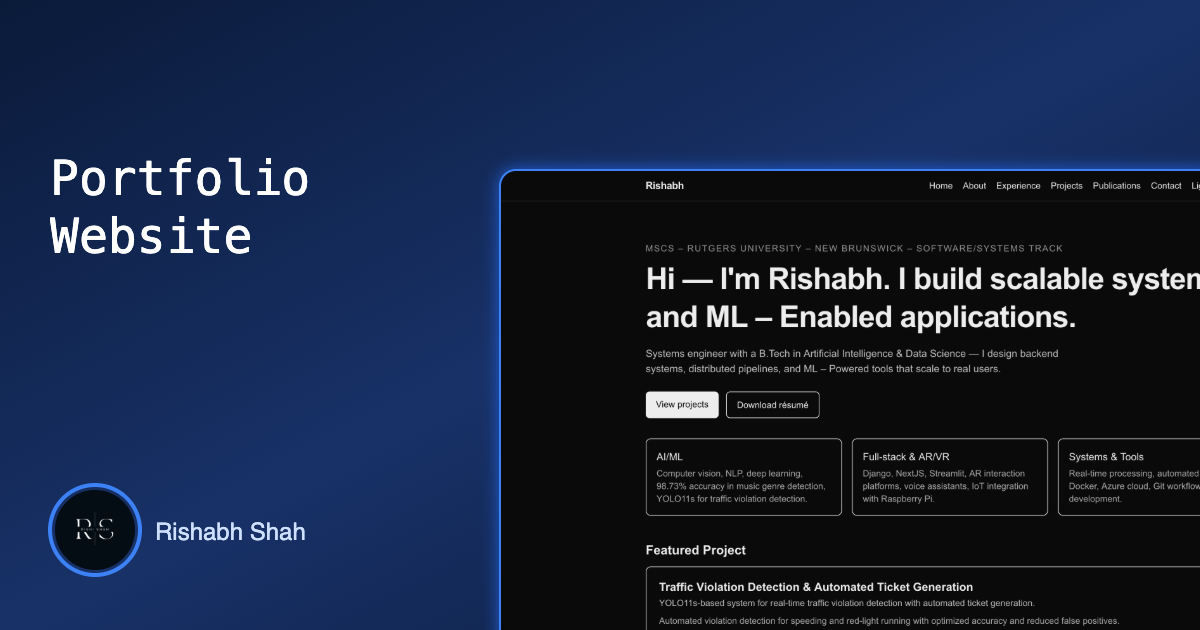
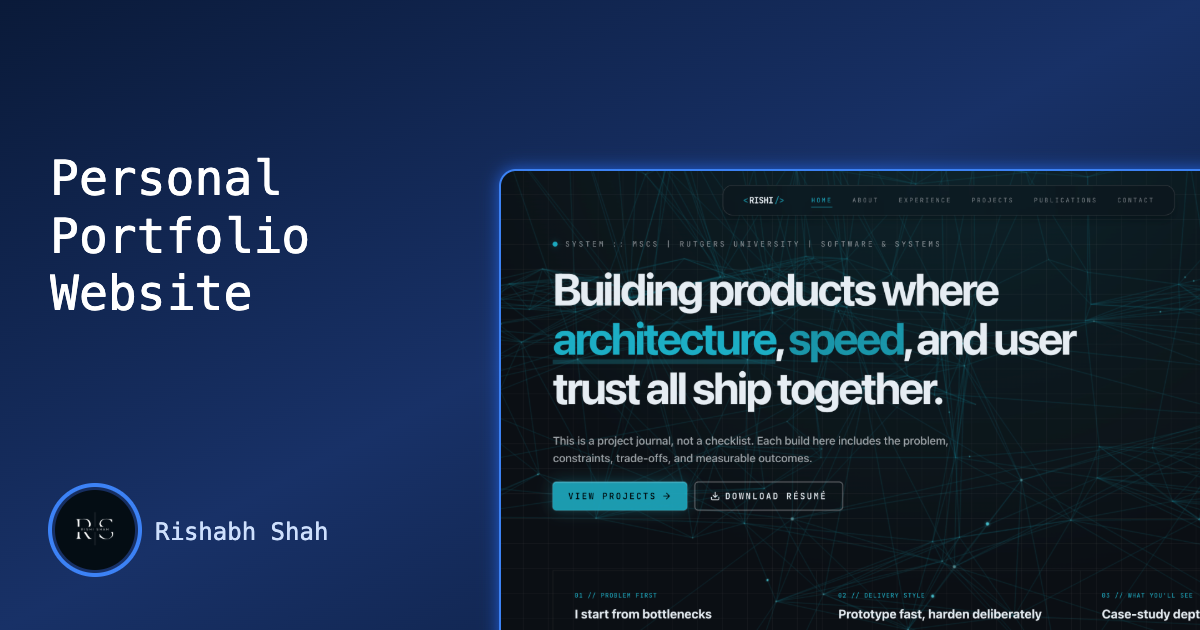
feat: add robots and sitemap generation for improved SEO and site structure

diff --git a/src/app/layout.tsx b/src/app/layout.tsx
@@ -45,38 +45,57 @@ const siteUrl = getSiteUrl();
 
 export const metadata: Metadata = {
   metadataBase: new URL(siteUrl),
-  title: {
-    default: "Rishabh Shah — MS CS (Software & Systems) | Scalable systems & ML-enabled apps",
-    template: "%s — Rishabh Shah",
+  alternates: {
+    canonical: "/",
   },
-  description: "I build scalable backend systems and ML-enabled applications. MS CS (Software & Systems) at Rutgers University; B.Tech in AI & Data Science at Dwarkadas J. Sanghvi College of Engineering, University of Mumbai.",
+  applicationName: "Rishabh Shah Portfolio",
+  referrer: "origin-when-cross-origin",
+  category: "technology",
+  title: {
+    default: "Rishabh Shah | MS CS (Software and Systems) | Scalable Backend and ML Apps",
+    template: "%s | Rishabh Shah",
+  },
+  description:
+    "Software engineer and MS CS (Software and Systems) student at Rutgers University building scalable backend systems, distributed services, and ML-enabled applications.",
   keywords: [
     "Rishabh Shah",
+    "Rishabh Shah portfolio",
     "Software Engineer",
+    "Software Developer",
     "Backend Developer",
+    "Backend Engineer",
     "ML Engineer",
+    "Machine Learning Engineer",
+    "Full Stack Engineer",
     "Rutgers University",
+    "MS Computer Science",
     "Computer Science",
     "Full-stack Developer",
     "Python",
+    "TypeScript",
+    "JavaScript",
+    "React",
     "Next.js",
     "Django",
     "Machine Learning",
     "AI",
     "Systems Engineer",
     "Microservices",
+    "Distributed Systems",
     "Docker",
     "AWS",
   ],
   authors: [{ name: "Rishabh Shah" }],
   creator: "Rishabh Shah",
+  publisher: "Rishabh Shah",
   openGraph: {
     type: "website",
     locale: "en_US",
     url: siteUrl,
-    siteName: "Rishabh Shah — Portfolio",
-    title: "Rishabh Shah — MS CS (Software & Systems)",
-    description: "I build scalable backend systems and ML-enabled applications. MS CS (Software & Systems) at Rutgers University; B.Tech in AI & Data Science at Dwarkadas J. Sanghvi College of Engineering, University of Mumbai.",
+    siteName: "Rishabh Shah Portfolio",
+    title: "Rishabh Shah | MS CS (Software and Systems)",
+    description:
+      "Explore projects, experience, and publications by Rishabh Shah focused on scalable backend systems, cloud-native engineering, and ML-enabled products.",
     images: [
       {
         url: `${siteUrl}/og-image.png`,
@@ -88,8 +107,10 @@ export const metadata: Metadata = {
   },
   twitter: {
     card: "summary_large_image",
-    title: "Rishabh Shah — MS CS (Software & Systems)",
-    description: "I build scalable backend systems and ML-enabled applications.",
+    title: "Rishabh Shah | Software Engineer",
+    description:
+      "Scalable backend systems, cloud-native services, and ML-enabled applications.",
+    creator: "@RishiiShah",
     images: [`${siteUrl}/og-image.png`],
   },
   robots: {
@@ -103,6 +124,11 @@ export const metadata: Metadata = {
       "max-snippet": -1,
     },
   },
+  formatDetection: {
+    email: false,
+    address: false,
+    telephone: false,
+  },
 };
 
 export default function RootLayout({
@@ -114,10 +140,23 @@ export default function RootLayout({
     "@context": "https://schema.org",
     "@type": "Person",
     name: "Rishabh Shah",
-    description: "Master's student in Computer Science (Software & Systems) at Rutgers University focused on scalable backend systems and ML-enabled applications",
+    description:
+      "Software engineer and MS CS student at Rutgers University focused on scalable backend systems and ML-enabled applications",
     url: siteUrl,
     email: "rishabh.shah033@djsce.edu.in",
+    image: `${siteUrl}/og-image.png`,
     jobTitle: "Graduate Student",
+    knowsAbout: [
+      "Backend Engineering",
+      "Distributed Systems",
+      "Machine Learning",
+      "Cloud Infrastructure",
+      "Microservices",
+      "Next.js",
+      "Django",
+      "Python",
+      "TypeScript",
+    ],
     sameAs: [
       "https://github.com/RishiiShah",
       "https://www.linkedin.com/in/rishabh-shah1/",

diff --git a/src/app/sitemap.ts b/src/app/sitemap.ts
@@ -1,0 +1,70 @@
+import type { MetadataRoute } from "next";
+import { projects } from "@/data/projects";
+
+const getSiteUrl = (): string => {
+  if (process.env.NEXT_PUBLIC_SITE_URL) {
+    return process.env.NEXT_PUBLIC_SITE_URL.startsWith("http")
+      ? process.env.NEXT_PUBLIC_SITE_URL
+      : `https://${process.env.NEXT_PUBLIC_SITE_URL}`;
+  }
+
+  if (process.env.VERCEL_URL) {
+    return `https://${process.env.VERCEL_URL}`;
+  }
+
+  return "https://rishabhshah.vercel.app";
+};
+
+const siteUrl = getSiteUrl();
+
+export default function sitemap(): MetadataRoute.Sitemap {
+  const now = new Date();
+
+  const staticRoutes: MetadataRoute.Sitemap = [
+    {
+      url: `${siteUrl}/`,
+      lastModified: now,
+      changeFrequency: "weekly",
+      priority: 1,
+    },
+    {
+      url: `${siteUrl}/about`,
+      lastModified: now,
+      changeFrequency: "monthly",
+      priority: 0.8,
+    },
+    {
+      url: `${siteUrl}/experience`,
+      lastModified: now,
+      changeFrequency: "monthly",
+      priority: 0.8,
+    },
+    {
+      url: `${siteUrl}/projects`,
+      lastModified: now,
+      changeFrequency: "weekly",
+      priority: 0.9,
+    },
+    {
+      url: `${siteUrl}/publications`,
+      lastModified: now,
+      changeFrequency: "monthly",
+      priority: 0.7,
+    },
+    {
+      url: `${siteUrl}/contact`,
+      lastModified: now,
+      changeFrequency: "yearly",
+      priority: 0.6,
+    },
+  ];
+
+  const projectRoutes: MetadataRoute.Sitemap = projects.map((project) => ({
+    url: `${siteUrl}/projects/${project.slug}`,
+    lastModified: now,
+    changeFrequency: "monthly",
+    priority: 0.7,
+  }));
+
+  return [...staticRoutes, ...projectRoutes];
+}

diff --git a/src/app/robots.ts b/src/app/robots.ts
@@ -1,0 +1,28 @@
+import type { MetadataRoute } from "next";
+
+const getSiteUrl = (): string => {
+  if (process.env.NEXT_PUBLIC_SITE_URL) {
+    return process.env.NEXT_PUBLIC_SITE_URL.startsWith("http")
+      ? process.env.NEXT_PUBLIC_SITE_URL
+      : `https://${process.env.NEXT_PUBLIC_SITE_URL}`;
+  }
+
+  if (process.env.VERCEL_URL) {
+    return `https://${process.env.VERCEL_URL}`;
+  }
+
+  return "https://rishabhshah.vercel.app";
+};
+
+const siteUrl = getSiteUrl();
+
+export default function robots(): MetadataRoute.Robots {
+  return {
+    rules: {
+      userAgent: "*",
+      allow: "/",
+    },
+    sitemap: `${siteUrl}/sitemap.xml`,
+    host: siteUrl,
+  };
+}
